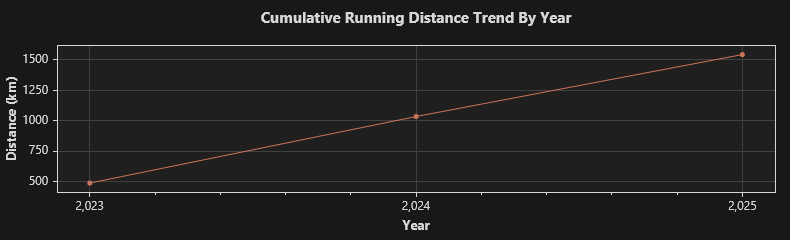
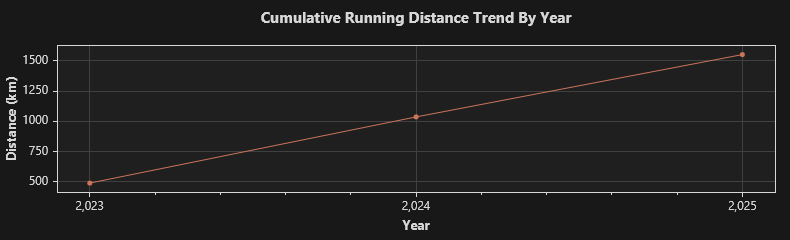
2025/9/22 跑步 6.23 公里

diff --git a/trend.md b/trend.md
@@ -1,4 +1,4 @@
-### Total: 259 days, 1544.11 km.
+### Total: 260 days, 1550.34 km.
 
 
 ![Monthly](https://github.com/prime167/MyRunningLog/blob/main/data/CumulativeTrendByMonth.png)
